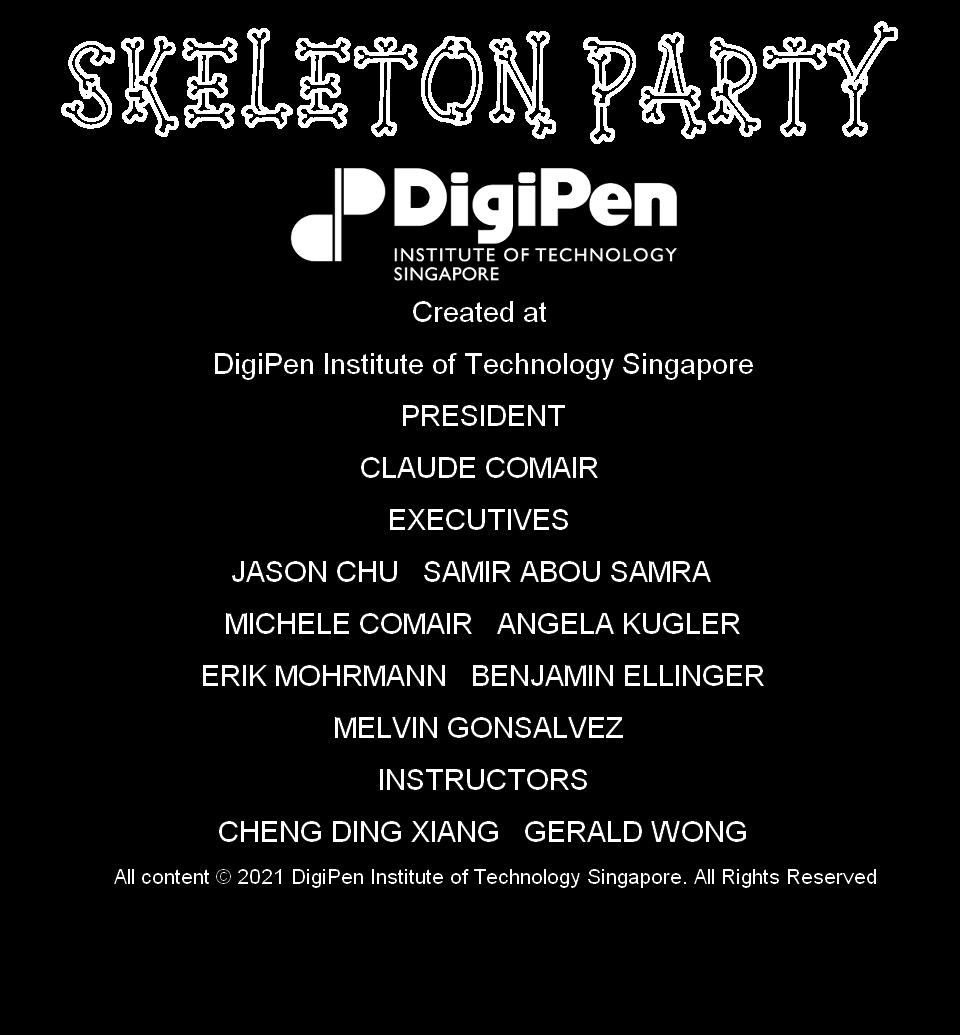
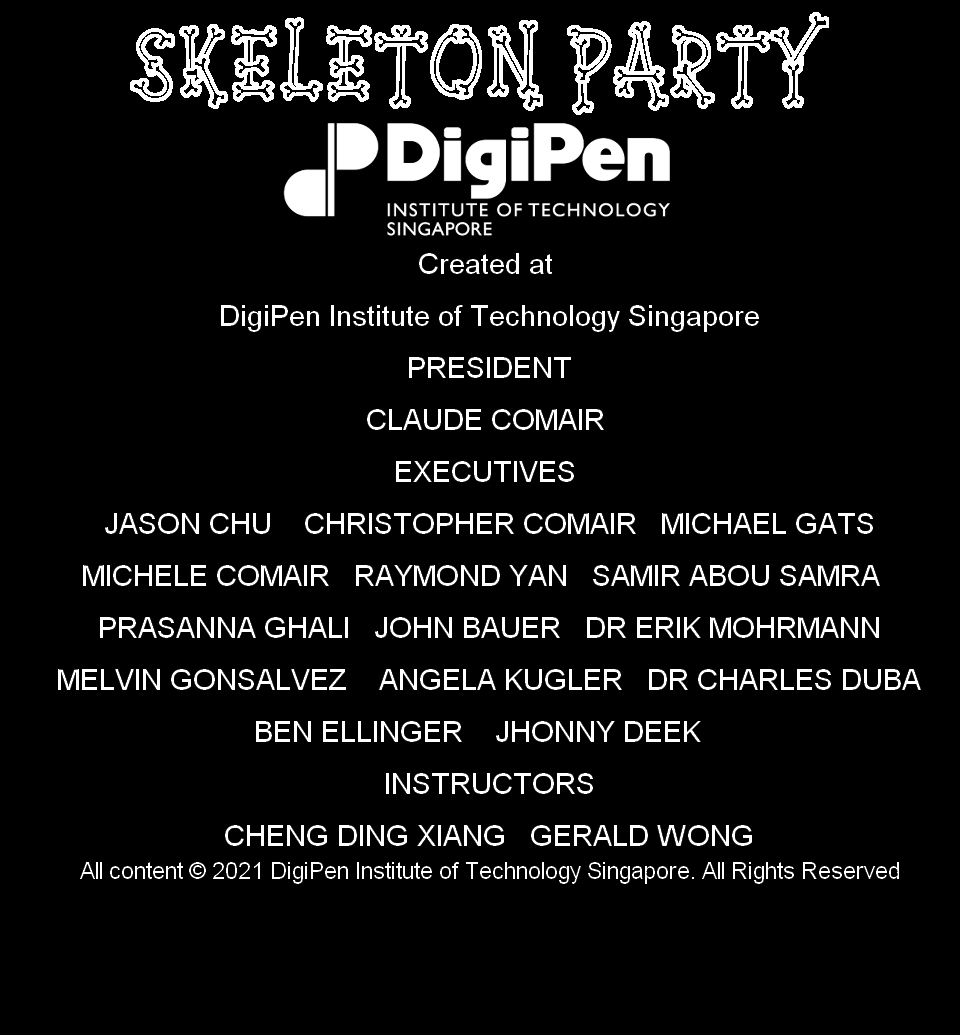
added names for credit and fix numbers

Changed region(s): [[0.0625, 0.0, 0.9688, 0.8657]]

diff --git a/Skeleton_Party/yithon.c b/Skeleton_Party/yithon.c
@@ -336,7 +336,7 @@ void drawCreditScreenpg1() {
 	credMenuBtn.height = height / 15.0f;
 	CP_Image_Draw(creditMenubtn, credMenuBtn.posX, credMenuBtn.posY, credMenuBtn.width, credMenuBtn.height, 255);
 
-	credNextBtn.posX = 850.0f;
+	credNextBtn.posX = 810.0f;
 	credNextBtn.posY = height * (0.925f);
 	credNextBtn.width = width / 5.0f;
 	credNextBtn.height = height / 15.0f;
